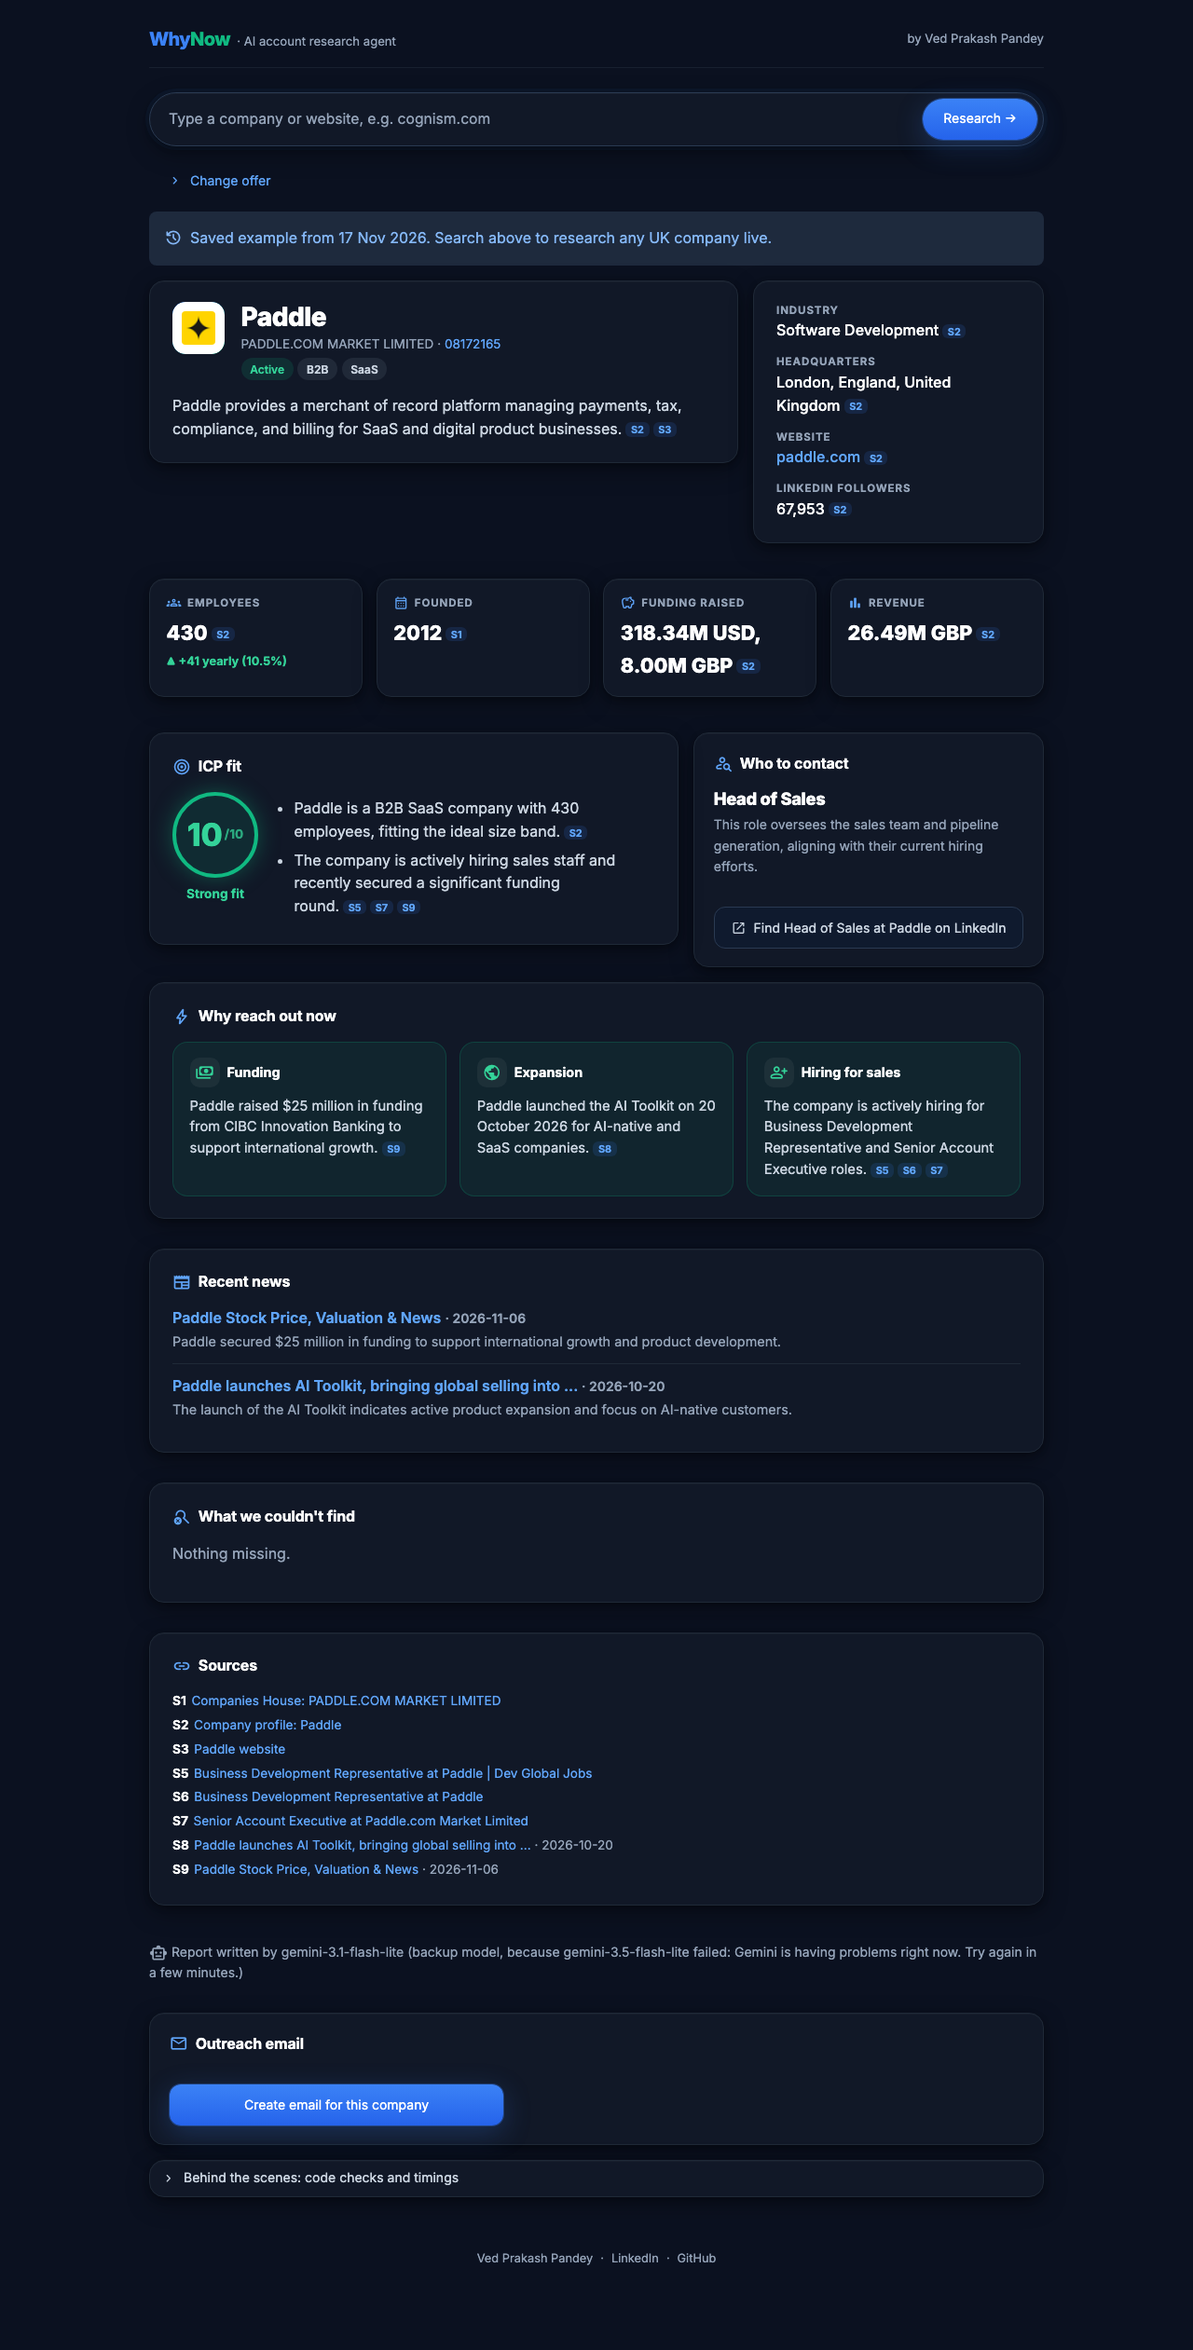
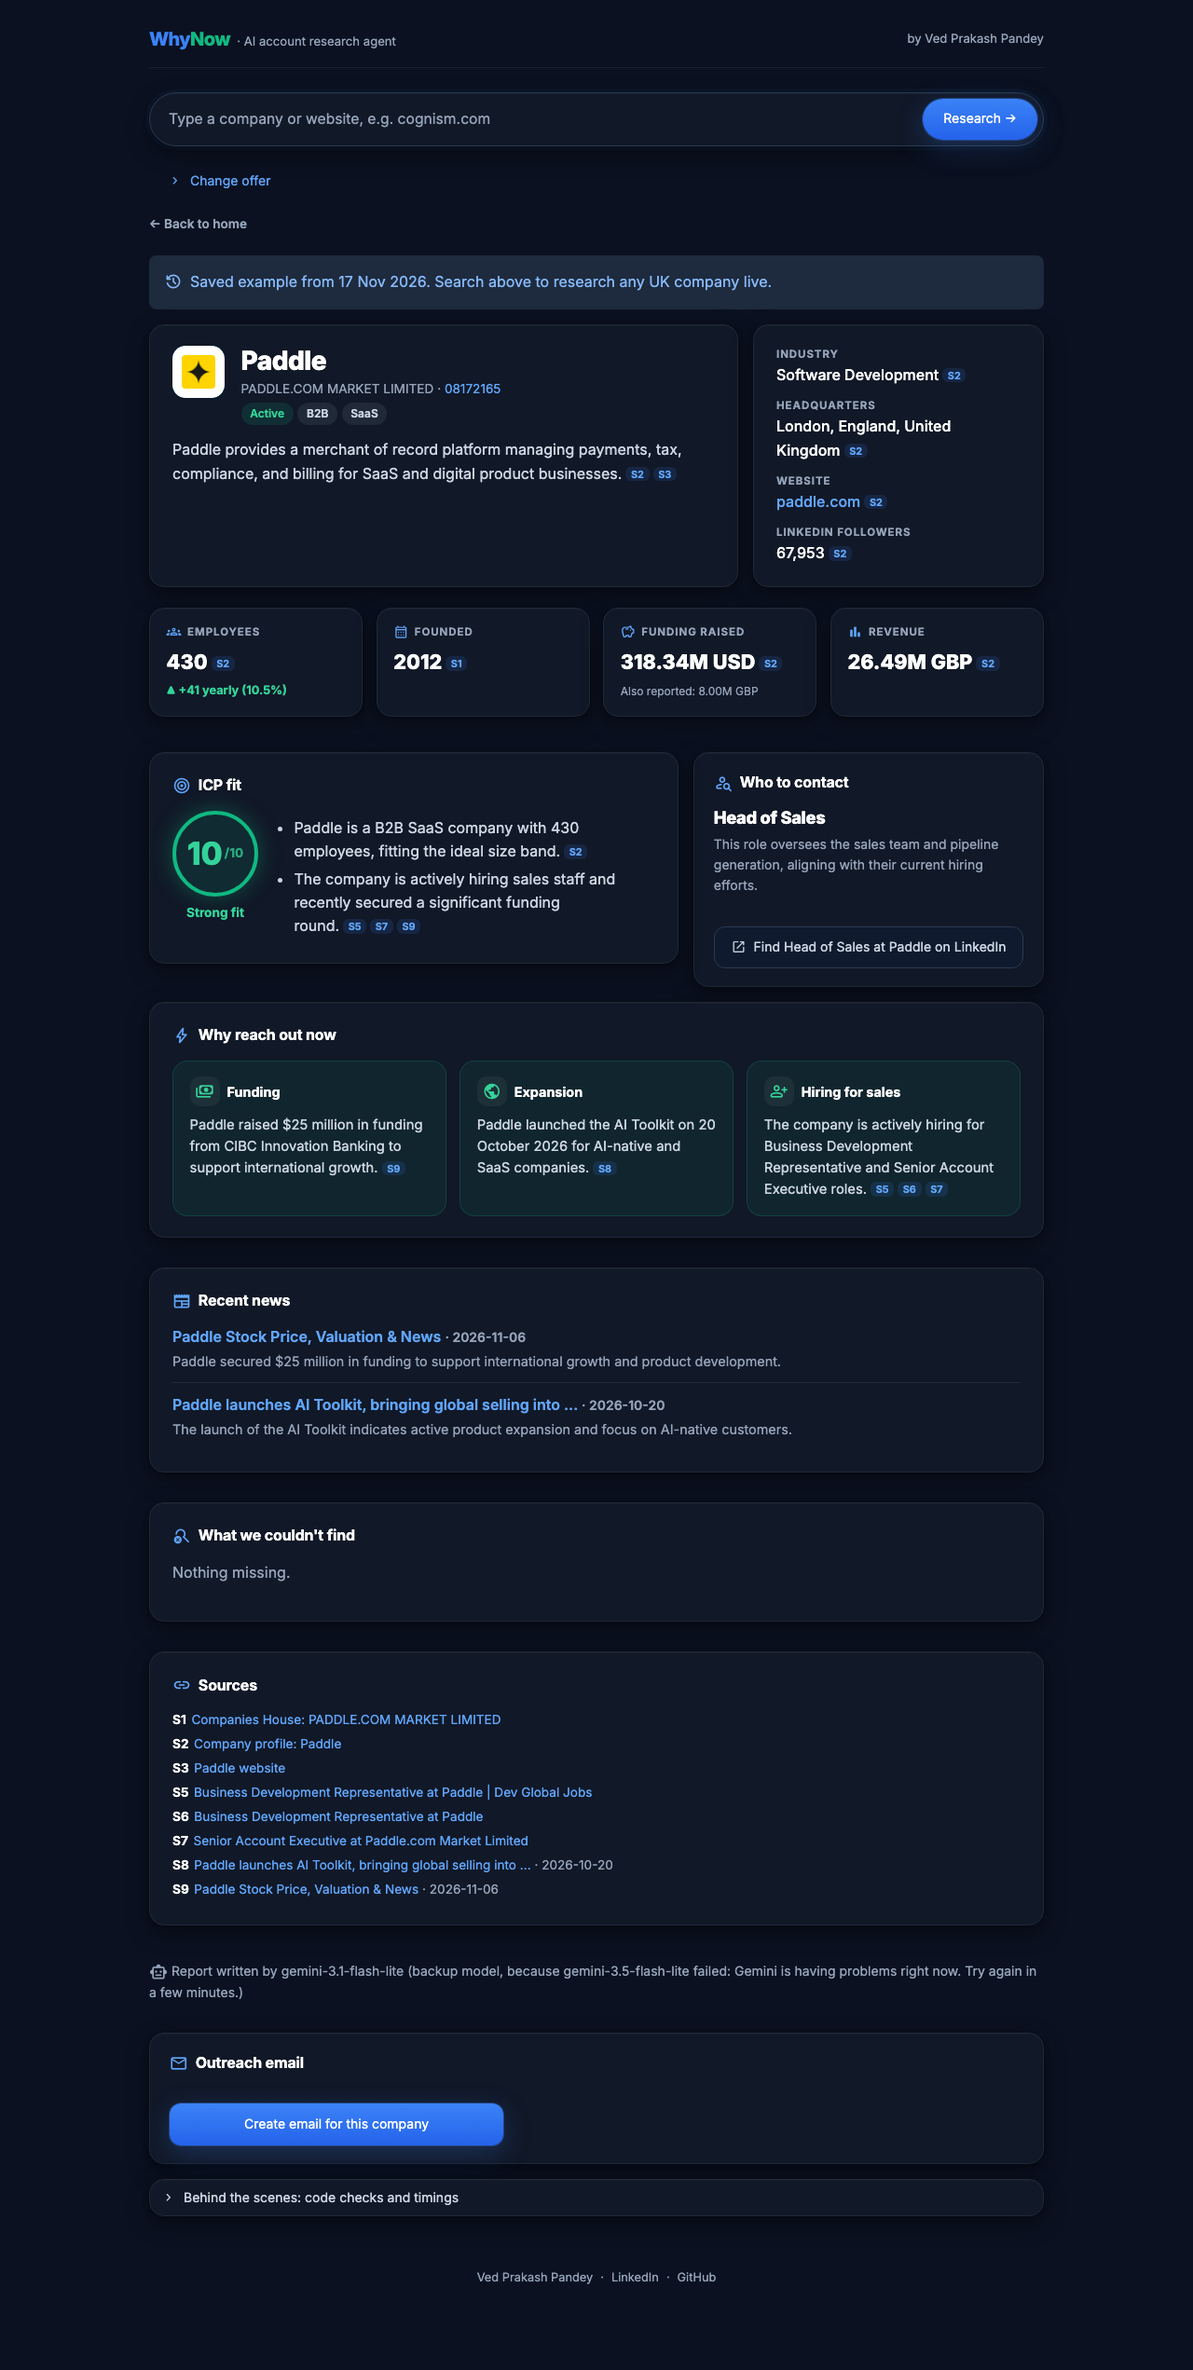
Home links, one-line headline matching the title width, single-currency funding total, equal-height overview cards, three backup Gemini models

diff --git a/ui/style.css b/ui/style.css
@@ -68,14 +68,21 @@ a:hover { text-decoration: underline; }
 .wn-topbar-label { color: var(--muted); font-size: 0.82rem; }
 .wn-topbar-by { color: var(--muted) !important; font-size: 0.82rem; }
 .wn-topbar-by:hover { color: var(--head) !important; text-decoration: none; }
+.wn-home:hover { text-decoration: none; opacity: 0.85; }
+.wn-back { display: inline-block; color: var(--muted) !important; font-size: 0.85rem; font-weight: 600; margin: 0.2rem 0 0.4rem; }
+.wn-back:hover { color: var(--head) !important; text-decoration: none; }
 
 /* ---------- Hero (left column) ---------- */
 .wn-hero { padding: 1.4rem 0 0.2rem; }
 .wn-wordmark { font-size: 4.6rem; font-weight: 800; color: var(--blue); letter-spacing: -0.045em; line-height: 1;
   text-shadow: 0 0 40px rgba(59, 130, 246, 0.25); }
 .wn-wordmark span { color: var(--emerald); text-shadow: 0 0 40px rgba(16, 185, 129, 0.25); }
-.stApp .wn-headline, .wn-headline { font-size: 1.45rem; font-weight: 700; color: var(--head); margin: 1rem 0 0; padding: 0;
-  letter-spacing: -0.01em; line-height: 1.3; }
+/* Title block: as wide as the "WhyNow" title, so the headline under it can match its width */
+.wn-title { display: inline-block; }
+.wn-title .wn-wordmark { display: inline-block; }
+/* Headline: one line, no wider than the title (about 0.17 x the title's size), white, lighter weight */
+.stApp .wn-headline, .wn-headline { font-size: calc(4.6rem * 0.168); font-weight: 600; color: var(--head); margin: 0.7rem 0 0;
+  padding: 0; letter-spacing: 0; line-height: 1.3; white-space: nowrap; }
 .wn-headline span { white-space: nowrap; }  /* each short sentence stays on one line */
 
 /* Animated "Because…" line: typed in, held, faded; pure CSS, no scripts */
@@ -175,7 +182,11 @@ a:hover { text-decoration: underline; }
 .wn-pick-meta { color: var(--muted); font-size: 0.875rem; margin-top: 0.3rem; line-height: 1.5; }
 .wn-pick.closed { opacity: 0.45; filter: grayscale(1); }
 
-/* ---------- Banner + profile ---------- */
+/* ---------- Banner + profile: both cards the same height ---------- */
+.st-key-wn_overview [data-testid="stHorizontalBlock"] { align-items: stretch; }
+.st-key-wn_overview [data-testid="stColumn"] > [data-testid="stVerticalBlock"],
+.st-key-wn_overview [data-testid="stElementContainer"], .st-key-wn_overview .stHtml { height: 100%; }
+.st-key-wn_overview .wn-card { height: 100%; box-sizing: border-box; margin-bottom: 0; }
 .wn-banner { display: flex; gap: 1.1rem; align-items: flex-start; }
 .wn-logo { position: relative; flex: 0 0 56px; width: 56px; height: 56px; border-radius: 14px;
   background: linear-gradient(135deg, var(--blue), var(--emerald));
@@ -199,6 +210,7 @@ a:hover { text-decoration: underline; }
 .wn-stat-value { font-size: 1.35rem; font-weight: 800; margin-top: 0.35rem; color: var(--head); overflow-wrap: anywhere; }
 .wn-stat-value.missing { font-size: 1rem; font-weight: 500; color: var(--muted); }
 .wn-trend { font-size: 0.8rem; font-weight: 700; margin-top: 0.2rem; }
+.wn-stat-note { color: var(--muted); font-size: 0.75rem; margin-top: 0.25rem; }
 .wn-trend.up { color: var(--emerald-bright); }
 .wn-trend.down { color: var(--red-bright); }
 
@@ -248,7 +260,7 @@ a:hover { text-decoration: underline; }
 /* ---------- Phones: stack, smaller type ---------- */
 @media (max-width: 760px) {
   .wn-wordmark { font-size: 3.4rem; }
-  .stApp .wn-headline, .wn-headline { font-size: 1.2rem; }
+  .stApp .wn-headline, .wn-headline { font-size: 1.05rem; white-space: normal; }
   .wn-typing span { font-size: 0.98rem; }
   .wn-steps { grid-template-columns: 1fr; }
   .wn-fit { flex-direction: column; }

diff --git a/ui/components.py b/ui/components.py
@@ -97,10 +97,19 @@ def wordmark(css_class="wn-wordmark"):
 
 def topbar():
     """Slim top bar: brand and label on the left, author on the right."""
-    return (f'<div class="wn-topbar"><div class="wn-topbar-brand">{wordmark("wn-mini")}'
+    return (f'<div class="wn-topbar"><div class="wn-topbar-brand">'
+            f'<a class="wn-home" href="{HOME_URL}" target="_self" title="Back to home">{wordmark("wn-mini")}</a>'
             f'<span class="wn-topbar-label">· {esc(settings.APP_LABEL)}</span></div>'
             f'<a class="wn-topbar-by" href="{safe_url(settings.AUTHOR_LINKEDIN)}" target="_blank" '
             f'rel="noopener noreferrer">by {esc(settings.AUTHOR_NAME)}</a></div>')
+
+
+HOME_URL = "./"   # the home page without "?sample=1"; loading it starts fresh, so the report is cleared
+
+
+def back_link():
+    """'← Back to home' above every report (live or sample)."""
+    return f'<a class="wn-back" href="{HOME_URL}" target="_self">← Back to home</a>'
 
 
 def hero():
@@ -109,8 +118,8 @@ def hero():
     # Each sentence in its own span, so a line only ever breaks between sentences
     sentences = [x.strip() for x in settings.APP_HEADLINE.replace(". ", ".|").split("|")]
     headline = " ".join(f"<span>{esc(x)}</span>" for x in sentences)
-    return (f'<div class="wn-hero">{wordmark()}'
-            f'<h2 class="wn-headline">{headline}</h2>'
+    return (f'<div class="wn-hero"><div class="wn-title">{wordmark()}'
+            f'<h2 class="wn-headline">{headline}</h2></div>'
             f'<div class="wn-typing" aria-label="{esc(settings.APP_TYPING_LINES[0])}">{typing}</div></div>')
 
 
@@ -288,7 +297,7 @@ def profile_card(r, by_id):
     return f'<div class="wn-card"><div class="wn-facts">{"".join(rows)}</div></div>'
 
 
-def stat_tile(label, icon_name, fact, by_id, value=None, trend=None):
+def stat_tile(label, icon_name, fact, by_id, value=None, trend=None, note=None):
     if fact:
         shown = f'<div class="wn-stat-value">{value or esc(fact["value"])}{fact_cite(fact, by_id)}</div>'
     else:
@@ -298,8 +307,17 @@ def stat_tile(label, icon_name, fact, by_id, value=None, trend=None):
         direction = "down" if trend.strip().startswith("-") else "up"
         arrow = "▼" if direction == "down" else "▲"
         trend_html = f'<div class="wn-trend {direction}">{arrow} {esc(trend)}</div>'
+    note_html = f'<div class="wn-stat-note">{esc(note)}</div>' if note and fact else ""
     return (f'<div class="wn-stat"><div class="wn-stat-label">{icon(icon_name)}{esc(label)}</div>'
-            f'{shown}{trend_html}</div>')
+            f'{shown}{trend_html}{note_html}</div>')
+
+
+def split_totals(value):
+    """'318.34M USD, 8.00M GBP' → ('318.34M USD', 'Also reported: 8.00M GBP'). The first listed total is the main one."""
+    parts = [x.strip() for x in str(value or "").split(",") if x.strip()]
+    if len(parts) < 2:
+        return value, None
+    return parts[0], "Also reported: " + ", ".join(parts[1:])
 
 
 def stats_row(r, by_id):
@@ -310,7 +328,9 @@ def stats_row(r, by_id):
         stat_tile("Employees", "groups", headcount, by_id,
                   value=f"{headcount['value']:,}" if headcount else None, trend=change),
         stat_tile("Founded", "calendar_month", p.get("founded"), by_id),
-        stat_tile("Funding raised", "savings", p.get("total_raised"), by_id),
+        stat_tile("Funding raised", "savings", p.get("total_raised"), by_id,
+                  value=esc(split_totals(p["total_raised"]["value"])[0]) if p.get("total_raised") else None,
+                  note=split_totals(p["total_raised"]["value"])[1] if p.get("total_raised") else None),
         stat_tile("Revenue", "bar_chart", p.get("revenue"), by_id),
     ]
     return f'<div class="wn-stats">{"".join(tiles)}</div>'

diff --git a/tests/test_time_limits.py b/tests/test_time_limits.py
@@ -151,9 +151,9 @@ def test_busy_main_model_falls_back_to_backup(monkeypatch):
     gemini = FakeGemini({settings.GEMINI_MODEL: busy()}).install(monkeypatch)
     answer = provider.generate_structured("hi", Claim)
     assert answer.text == "hello"
-    assert gemini.models_asked == [settings.GEMINI_MODEL, settings.GEMINI_FALLBACK_MODEL]
+    assert gemini.models_asked == [settings.GEMINI_MODEL, settings.GEMINI_FALLBACK_MODELS[0]]
     used = provider.last_model_used()
-    assert used["name"] == settings.GEMINI_FALLBACK_MODEL and used["backup"] is True
+    assert used["name"] == settings.GEMINI_FALLBACK_MODELS[0] and used["backup"] is True
     assert "having problems" in used["reason"]
 
 
@@ -173,12 +173,24 @@ def test_key_problem_does_not_try_the_backup(monkeypatch):
     assert gemini.models_asked == [settings.GEMINI_MODEL]
 
 
-def test_both_models_busy_gives_a_friendly_error(monkeypatch):
+def test_backups_are_tried_in_order_until_one_works(monkeypatch):
+    """Real problem (17 Nov 2026): the main model hit its 20-a-day limit and the first backup was busy."""
     from models import Claim
-    gemini = FakeGemini({settings.GEMINI_MODEL: busy(), settings.GEMINI_FALLBACK_MODEL: busy()}).install(monkeypatch)
+    main, first, second, third = [settings.GEMINI_MODEL] + settings.GEMINI_FALLBACK_MODELS
+    gemini = FakeGemini({main: busy(), first: busy()}).install(monkeypatch)
+    provider.generate_structured("hi", Claim)
+    assert gemini.models_asked == [main, first, second]
+    used = provider.last_model_used()
+    assert used["name"] == second and main in used["reason"] and first in used["reason"]
+
+
+def test_all_models_busy_gives_a_friendly_error(monkeypatch):
+    from models import Claim
+    all_models = [settings.GEMINI_MODEL] + settings.GEMINI_FALLBACK_MODELS
+    gemini = FakeGemini({m: busy() for m in all_models}).install(monkeypatch)
     with pytest.raises(provider.AIError, match="having problems"):
         provider.generate_structured("hi", Claim)
-    assert len(gemini.models_asked) == 2   # exactly one retry, no endless loop
+    assert gemini.models_asked == all_models   # each model once, no endless loop
 
 
 class ConnectError(Exception):
@@ -188,6 +200,6 @@ class ConnectError(Exception):
 def test_dropped_connection_gets_a_plain_message(monkeypatch):
     """Real problem (17 Nov 2026): the connection dropped and the message said 'ConnectError'."""
     from models import Claim
-    FakeGemini({settings.GEMINI_MODEL: ConnectError(), settings.GEMINI_FALLBACK_MODEL: ConnectError()}).install(monkeypatch)
+    FakeGemini({m: ConnectError() for m in [settings.GEMINI_MODEL] + settings.GEMINI_FALLBACK_MODELS}).install(monkeypatch)
     with pytest.raises(provider.AIError, match="Couldn't reach Gemini. Check your internet connection"):
         provider.generate_structured("hi", Claim)

diff --git a/ai/provider.py b/ai/provider.py
@@ -2,8 +2,8 @@
 provider.py — the ONE place that talks to the AI.
 
 The rest of the app only calls generate_structured(prompt, Shape).
-If the main Gemini model is busy, slow or retired, the same request is tried once more
-with a backup model (GEMINI_FALLBACK_MODEL). last_model_used() says which one answered.
+If the main Gemini model is busy, slow, rate-limited or retired, the same request is tried
+with each backup model in turn (GEMINI_FALLBACK_MODELS), once each. last_model_used() says which answered.
 To swap Gemini for another AI later, add a new _ask_<provider> function here
 and change AI_PROVIDER in settings.py. Nothing else needs to change.
 """
@@ -41,18 +41,19 @@ def generate_structured(prompt, shape):
     """Ask the AI and get back a filled-in Pydantic object of the given shape."""
     if settings.AI_PROVIDER != "gemini":
         raise AIError(f"Unknown AI provider '{settings.AI_PROVIDER}' in settings.py.")
-    main, backup = settings.GEMINI_MODEL, settings.GEMINI_FALLBACK_MODEL
-    try:
-        answer = _ask_gemini(prompt, shape, main)
-        _last.model = {"name": main, "backup": False, "reason": None}
+    models = [settings.GEMINI_MODEL] + [m for m in settings.GEMINI_FALLBACK_MODELS if m != settings.GEMINI_MODEL]
+    failed = []
+    for model in models:
+        try:
+            answer = _ask_gemini(prompt, shape, model)
+        except AIError as e:
+            # Key problems (or the last model failing) stop here: another model wouldn't help
+            if not e.try_backup or model == models[-1]:
+                raise
+            failed.append(f"{model} failed: {e}")
+            continue
+        _last.model = {"name": model, "backup": bool(failed), "reason": "; ".join(failed) or None}
         return answer
-    except AIError as e:
-        if not (e.try_backup and backup and backup != main):
-            raise
-        reason = f"{main} failed: {e}"
-    answer = _ask_gemini(prompt, shape, backup)   # one more try with the backup model
-    _last.model = {"name": backup, "backup": True, "reason": reason}
-    return answer
 
 
 def _ask_gemini(prompt, shape, model):

diff --git a/tests/test_components.py b/tests/test_components.py
@@ -122,3 +122,24 @@ def test_closed_company_card_is_greyed_out():
     m = {"name": "OLD LTD", "status": "dissolved", "source": "https://ch/1"}
     assert 'class="wn-pick closed"' in ui.picker_card(m)
     assert 'class="wn-pick"' in ui.picker_card(dict(m, status="active"))
+
+
+def test_logo_and_back_link_return_home():
+    assert 'class="wn-home" href="./" target="_self"' in ui.topbar()
+    assert ui.back_link() == '<a class="wn-back" href="./" target="_self">← Back to home</a>'
+
+
+def test_headline_is_one_line_on_desktop():
+    css = ui.CSS_FILE.read_text()
+    assert "white-space: nowrap" in css.split(".wn-headline {")[1].split("}")[0]
+
+
+@pytest.mark.parametrize("value, main, note", [
+    ("318.34M USD, 8.00M GBP", "318.34M USD", "Also reported: 8.00M GBP"),
+    ("5M GBP", "5M GBP", None),
+])
+def test_funding_shows_one_main_total(value, main, note):
+    assert ui.split_totals(value) == (main, note)
+    out = ui.stats_row({"profile": {"total_raised": {"value": value, "source": None}}}, {})
+    assert f">{main}<" in out
+    assert (note in out) if note else ("Also reported" not in out)

diff --git a/app.py b/app.py
@@ -225,13 +225,15 @@ def show_behind_the_scenes(r):
 
 def show_report(r):
     by_id = {s["id"]: s for s in r["all_sources"]}
+    st.html(ui.back_link())
     if st.session_state.get("sample"):
         st.info(f"Saved example from {r.get('saved_on', 'an earlier run')}. "
                 "Search above to research any UK company live.", icon=":material/history:")
 
-    left, right = st.columns([2, 1])
-    left.html(ui.banner(r, by_id))
-    right.html(ui.profile_card(r, by_id))
+    with st.container(key="wn_overview"):   # the CSS makes both cards the same height
+        left, right = st.columns([2, 1])
+        left.html(ui.banner(r, by_id))
+        right.html(ui.profile_card(r, by_id))
     for w in r["warnings"]:
         st.caption(safe(w))
     st.html(ui.stats_row(r, by_id))

diff --git a/settings.py b/settings.py
@@ -106,7 +106,11 @@ AI_PROVIDER = "gemini"
 #   gemini-3.6-flash: tested working (full report shape in ~6s). Using this for now;
 #   try 3.8-flash again once Google's service is stable.
 GEMINI_MODEL = "gemini-3.6-flash"
-GEMINI_FALLBACK_MODEL = "gemini-3.5-flash"   # tried once if the main model is busy, slow or retired
+GEMINI_FALLBACK_MODELS = [          # tried in order, once each, if the main model is busy, slow, rate-limited or retired
+    "gemini-3.5-flash",
+    "gemini-3.5-flash-lite",         # each model has its own free daily allowance
+    "gemini-3.1-flash-lite",
+]
 
 
 # ---------------------------------------------------------------------------

diff --git a/tests/test_app.py b/tests/test_app.py
@@ -164,6 +164,7 @@ def test_full_report_shows_every_section(app):
     for heading in ["ICP fit", "Why reach out now", "Recent news", "What we couldn&#x27;t find", "Sources"]:
         assert heading in page
     assert 'class="wn-badge strong"' in page                  # 8/10 → green
+    assert "← Back to home" in page
     assert '<span class="icon" aria-hidden="true">payments</span>Funding' in page   # signal icon
     assert ">Acme raises $5m<" in page                        # internal "[funding]" tag removed
     assert "300" in page and "▲ +30 yearly (11%)" in page     # stat tile with trend

diff --git a/README.md b/README.md
@@ -91,7 +91,7 @@ Results are cached: looking up the same company again within 6 hours costs no AP
 
     - if headcount isn't found, the AI judges size only from evidence in the sources
   - The AI provider sits behind one function ([ai/provider.py](ai/provider.py)), so swapping Gemini for another model is a settings change.
-  - **Backup model:** if the main Gemini model is busy, slow, rate-limited or retired, the request is tried once more with `GEMINI_FALLBACK_MODEL`. Key problems don't trigger it, because another model wouldn't help. The report and the email each say which model wrote them.
+  - **Backup models:** if the main Gemini model is busy, slow, rate-limited or retired, the request is tried with each model in `GEMINI_FALLBACK_MODELS` in turn, once each (gemini-3.5-flash, then gemini-3.5-flash-lite, then gemini-3.1-flash-lite). Each model has its own free daily allowance (the main model's is only 20 requests a day), so this keeps the app working on busy days. Key problems don't trigger it, because another model wouldn't help. The report and the email each say which model wrote them.
   - Try it (about 9 Tavily credits + 1–2 Gemini requests): `.venv/bin/python -m report "paddle.com"`
 
 - **Time limits** (set in [settings.py](settings.py)):
